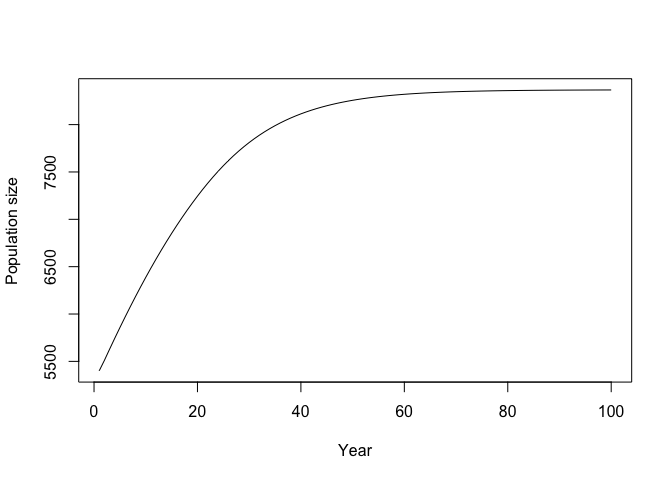
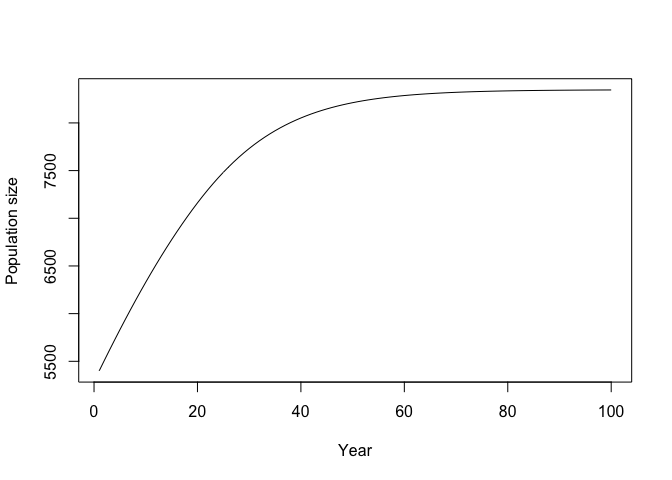
update README

diff --git a/README.md b/README.md
@@ -78,9 +78,11 @@ This package can be downloaded directly from GitHub:
 
 We would like this package to be sustainable in the long term and
 welcome contributions. If you encounter a bug, please leave a note on
-the Issues page. You can also leave comments there about additional
-functionality (please add the “enhancement” label to your issue). If you
-are interested in contributing, we direct you to the R package
+the [Issues page](https://github.com/mcsiple/mmrefpoints/issues). You
+can also leave comments there about additional functionality (please add
+the “enhancement” label to your issue).
+
+If you are interested in contributing, we direct you to the R package
 [contribution advice](http://r-pkgs.had.co.nz/git.html) from Hadley
 Wickham.
 
@@ -103,7 +105,8 @@ run_app()
 
 ## Functionality
 
-Key functions in this package:
+The foundation of this package is an age-structured population
+projection model with bycatch mortality. Key functions in this package:
 
 | Function      | Purpose                                                         |
 |:--------------|:----------------------------------------------------------------|
@@ -114,12 +117,88 @@ To create a single projection for a marine mammal population, use the
 `dynamics()` function:
 
 ``` r
-x <- mmrefpoints::dynamics(S0 = 0.944, S1plus = 0.99, K1plus = 9000, AgeMat = 17,
-InitDepl = 0.6, ConstantCatch = NA, ConstantF = rep(0.01, times = 100), z = 2.39, nyears = 100, nages = 25, lambdaMax = 1.04)
+x <- mmrefpoints::dynamics(S0 = 0.944, S1plus = 0.99, 
+                           K1plus = 9000, AgeMat = 17,
+                           InitDepl = 0.6, 
+                           ConstantCatch = NA, 
+                           ConstantF = rep(0.01, times = 100), 
+                           z = 2.39, nyears = 100, 
+                           nages = 25, lambdaMax = 1.04)
 plot(1:100, x$TotalPop, type = 'l', xlab = "Year", ylab = "Population size")
 ```
 
 <img src="man/figures/README-unnamed-chunk-4-1.png" width="100%" />
+
+Variation in the model is introduced through variation in bycatch
+mortality over time and uncertainty in the estimate of starting
+abundance.
+
+``` r
+x <- mmrefpoints::projections(
+  NOut = 1,
+  ConstantBycatch = list(Catch = 50, CV = 0.7),
+  InitDepl = 0.6,
+  lh.params = list(
+    S0 = 0.944, S1plus = 0.99,
+    K1plus = 9000, AgeMat = 18, nages = 25, z = 2.39, lambdaMax = 1.04
+  ),
+  nyears = 100, obs_CV = 0.1
+)
+
+# One trajectory with bycatch uncertainty and an observation CV:
+plot(x$trajectories, type = "l", xlab = "Year", ylab = "Population size")
+```
+
+<img src="man/figures/README-unnamed-chunk-5-1.png" width="100%" />
+
+Projections shown in the app are based on simulation parameters provided
+by the user. They include a “high”, “medium”, and “low” bycatch level
+based on a user-determined range.
+
+``` r
+x_lo <- mmrefpoints::projections(
+  NOut = 100,
+  ConstantBycatch = list(Catch = 0, CV = 0),
+  InitDepl = 0.6,
+  lh.params = list(
+    S0 = 0.944, S1plus = 0.99,
+    K1plus = 9000, AgeMat = 18, nages = 25, z = 2.39, lambdaMax = 1.04
+  ),
+  nyears = 100, obs_CV = 0.1
+)
+
+x_med <- mmrefpoints::projections(
+  NOut = 100,
+  ConstantBycatch = list(Catch = 50, CV = 0.7),
+  InitDepl = 0.6,
+  lh.params = list(
+    S0 = 0.944, S1plus = 0.99,
+    K1plus = 9000, AgeMat = 18, nages = 25, z = 2.39, lambdaMax = 1.04
+  ),
+  nyears = 100, obs_CV = 0.1
+)
+
+x_hi <- mmrefpoints::projections(
+  NOut = 100,
+  ConstantBycatch = list(Catch = 200, CV = 0.7),
+  InitDepl = 0.6,
+  lh.params = list(
+    S0 = 0.944, S1plus = 0.99,
+    K1plus = 9000, AgeMat = 18, nages = 25, z = 2.39, lambdaMax = 1.04
+  ),
+  nyears = 100, obs_CV = 0.1
+)
+
+mmrefpoints::plot_proj(high = x_hi,
+                       med = x_med,
+                       low = x_lo,
+                       years.plot = 100,
+                       ylims = c(0, 9000),
+                       K1plus = 9000)
+#> Warning: Removed 38 row(s) containing missing values (geom_path).
+```
+
+<img src="man/figures/README-unnamed-chunk-6-1.png" width="100%" />
 
 ## References
 
@@ -139,5 +218,5 @@ citation:
 > Randall R. Reeves, Guðjón Már Sigurðsson, Gísli Víkingsson, Paul R.
 > Wade, Rob Williams, and Alexandre N. Zerbini (t.b.d.). mmrefpoints:
 > Projecting long-term marine mammal abundance with bycatch. R package
-> version 1.0.0. url: <https://github.com/mcsiple/mmrefpoints> doi:
+> version 0.1.0. url: <https://github.com/mcsiple/mmrefpoints> doi:
 > 10.5281/zenodo.4758402
